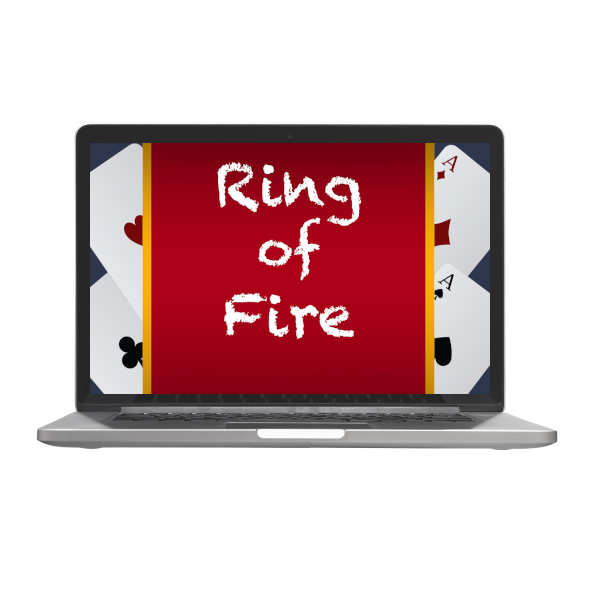
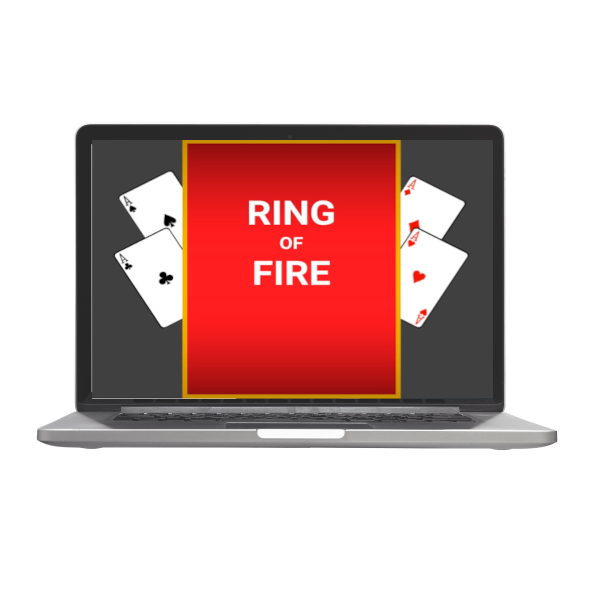
design links

Changed region(s): [[0.1498, 0.21, 0.8386, 0.69]]

diff --git a/src/app/portfolio/portfolio.component.html b/src/app/portfolio/portfolio.component.html
@@ -86,12 +86,12 @@
                     <div class="project-info">
                         <h2>Ring of Fire</h2>
                         <p>
-                            A popular drinking game. Choose a card from the card stack and implement what appears to you in the text.
+                            UNDER CONSTRUCTION: A popular drinking game. Choose a card from the card stack and implement what appears to you in the text.
                         </p>
                         <span class="small-span">Angular | TypeScript | HTML | SCSS | Firebase</span>
                     </div>
                     <div class="project-img-container">
-                        <img class="project-img" src="./assets/img/pokedex.png" alt="Ring of fire">
+                        <img class="project-img" src="./assets/img/ringoffire.png" alt="Ring of fire">
                     </div>
                 </div>
             </div>

diff --git a/src/app/footer/footer.component.html b/src/app/footer/footer.component.html
@@ -10,7 +10,7 @@
                     <div class="social-media-container-img">
                         <a href="https://github.com/CNN87" target="_blank"><img src="./assets/img/git.png" alt=""></a>
                         <a href="#contact"><img src="./assets/img/mail.png" alt=""></a>
-                        <a href="https://de.linkedin.com/" target="_blank"><img src="./assets/img/linkedin.png" alt=""></a>
+                        <a href="https://www.linkedin.com/in/sinan-s-65a935273" target="_blank"><img src="./assets/img/linkedin.png" alt=""></a>
                     </div>
                 </div>
             </div>

diff --git a/src/app/start-page/start-page.component.html b/src/app/start-page/start-page.component.html
@@ -25,7 +25,7 @@
         </div>
         <a href="https://github.com/CNN87" target="_blank"><img src="./assets/img/git.png" alt=""></a>
         <a href="#contact"><img src="./assets/img/mail.png" alt=""></a>
-        <a href="https://de.linkedin.com/" target="_blank"><img src="./assets/img/linkedin.png" alt=""></a>
+        <a href="https://www.linkedin.com/in/sinan-s-65a935273" target="_blank"><img src="./assets/img/linkedin.png" alt=""></a>
 
     </div>
 </section>
